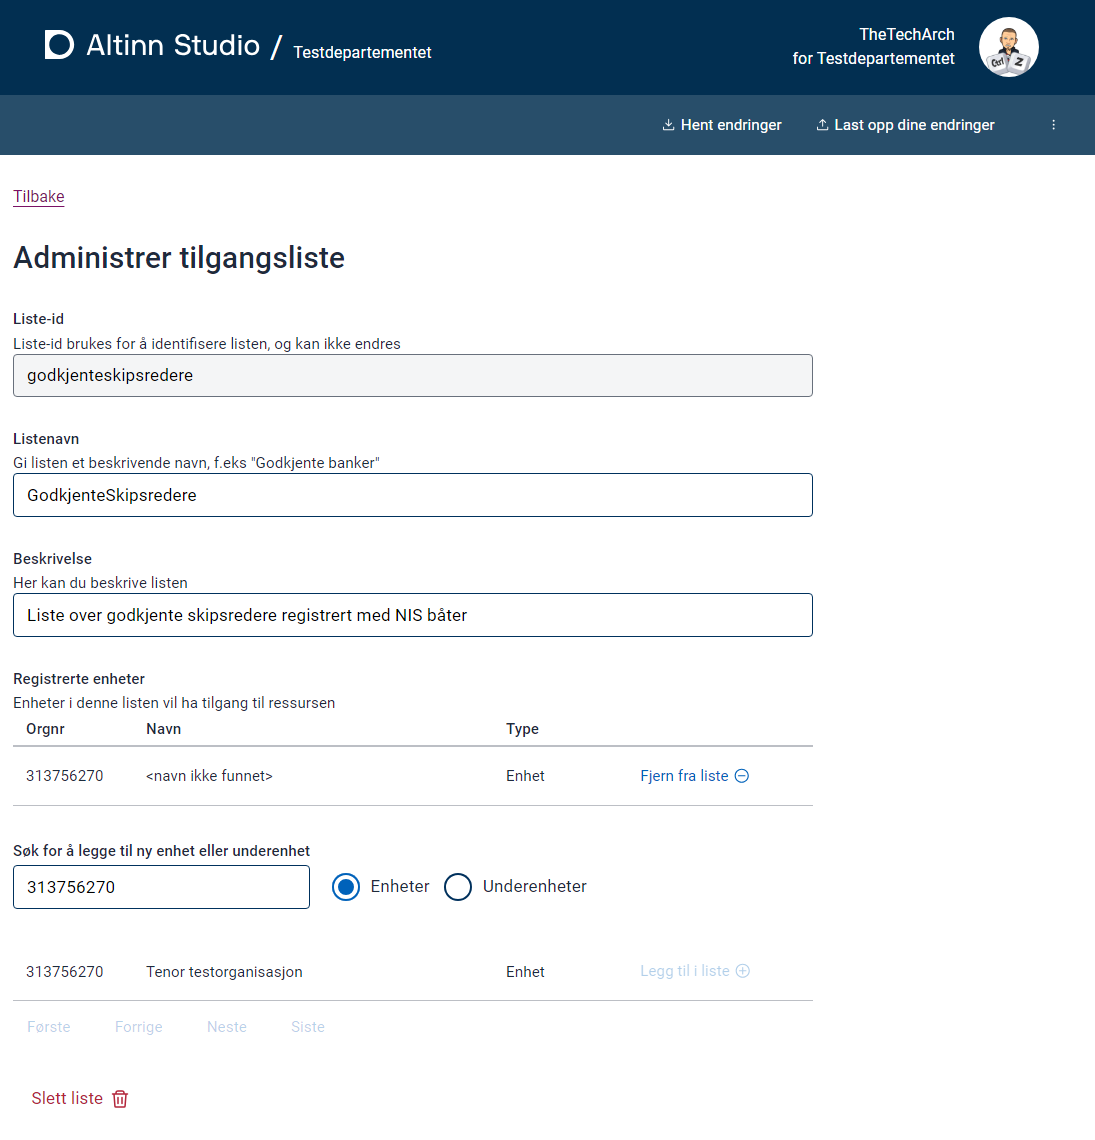
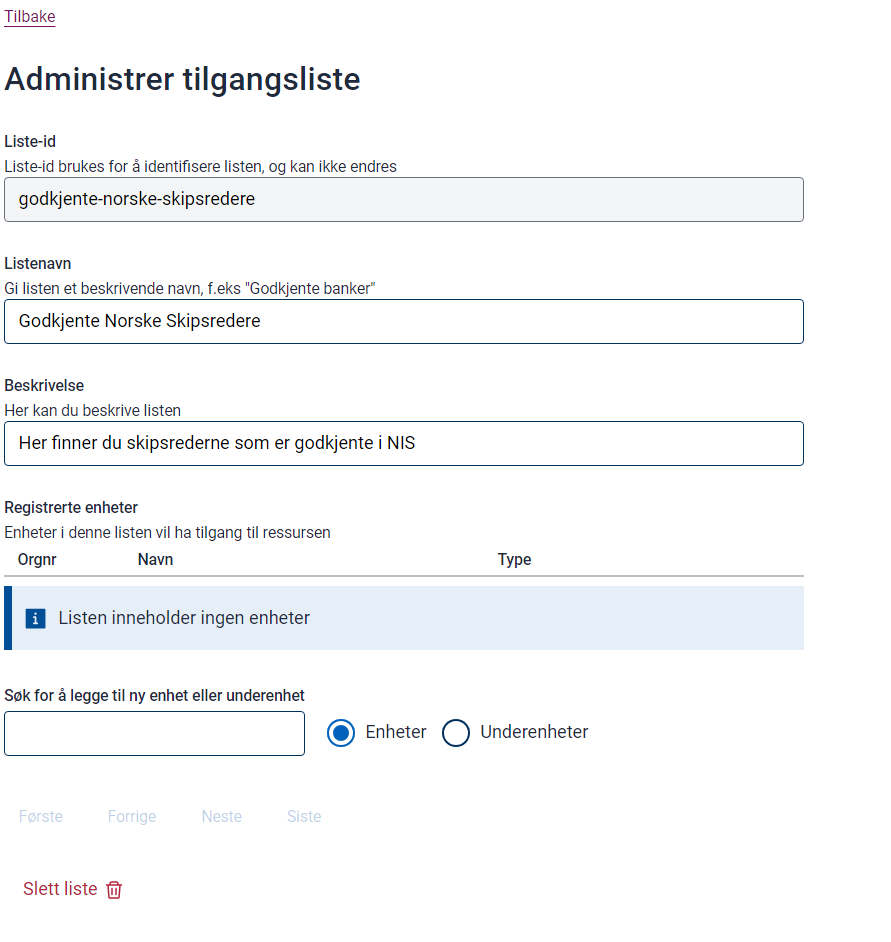
updates

diff --git a/content/authorization/guides/manage-accesslists-resource-admin/_index.nb.md b/content/authorization/guides/manage-accesslists-resource-admin/_index.nb.md
@@ -1,0 +1,64 @@
+---
+title: Administrer Tilgangslister i Altinn Studio
+linktitle: Admin av Tilgangsliste
+description: I Altinn Studio kan du administrere Tilgangsliste for Ressurser i Altinn Ressursregister.
+toc: false
+weight: 1
+---
+
+## Background
+
+For visse tjenester er det nødvendig å begrense tilgangen til bestemte organisasjoner. I Altinn 2 ble dette håndtert via Tjenesterettsregisteret (SRR).
+
+I Altinn 3 håndteres denne funksjonaliteten av Ressursrettsregisteret (RRR) gjennom Tilgangslister.
+
+## Prerequistes
+
+- Administrasjonsrettigheter for Ressursregisteret
+- Medlemskap i Tilgangsliste-gruppen for et spesifisert miljø
+
+Se [ Komme i gang med Tilgangslister](../../getting-started/accesslist-admin-studio/) for mer informasjon.
+
+## Opprette ny Tilgangsliste
+
+Naviger til ressursadministrasjonsdashbordet og klikk på lenken for administrasjon av tilgangsliste.
+
+![Access Lists](accesslist_0.png)
+
+Dette tar deg til oversiktssiden for Tilgangslister. Her vil du se en liste over miljøer tilgjengelig for din organisasjon.
+
+![Access Lists](accesslist_1.png)
+
+Velg et miljø for å vise dets Tilgangslister.
+
+Klikk “Opprett ny Tilgangsliste” og gi listen et unikt navn og ID.
+
+![Access Lists](accesslist_1a.png)
+
+Når listen er opprettet, kan du legge til en beskrivelse av listen din.
+
+![Access Lists](accesslist_2.png)
+
+## Legge til medlemmer i listen
+
+Legg til organisasjoner som medlemmer i listen din.
+
+I produksjonsmiljøer, søk etter navn eller organisasjonsnummer. I TT02 må du bruke testorganisasjonens nummer da navn ikke vil vises.
+
+
+![Access Lists](accesslist_3.png)
+
+## Tildele Tilgangsliste til ressurs
+
+For å tildele listen din til en ressurs:
+
+- Aktiver RRR for ressursen.
+- Velg en eller flere lister autorisert som rapportører for ressursen.
+
+
+![Access Lists](accesslist_5.png)
+
+
+![Access Lists](accesslist_4.png)
+
+Etter oppdatering, publiser ressursen til forskjellige miljøer. Merk: Hvis du aktiverer RRR før listen er satt opp, vil alle brukere miste tilgang.

diff --git a/content/authorization/guides/manage-accesslists-resource-admin/_index.md b/content/authorization/guides/manage-accesslists-resource-admin/_index.md
@@ -6,21 +6,58 @@ toc: false
 weight: 1
 ---
 
-
-
 ## Background
 
+For certain services, restricting access to specific organizations is necessary. In Altinn 2, this was managed via the Service Rights Registry (SRR). 
 
+In Altinn 3, this functionality is handled by the Resource Rights Registry (RRR) through Access Lists.
 
 ## Prerequistes
 
-- Resource Registry Admin enabled
-- Member in AccessList groupd for a given environment
-- 
+- Resource Registry Admin privileges
+- Membership in the AccessList group for a specified environment
 
+Refer to [Getting Started with Access Lists ](../../getting-started/accesslist-admin-studio/) for more information.
 
 ## Create new Access List
 
+Navigate to the resource admin dashboard and click on the link for access list administration.
 
+![Access Lists](accesslist_0.png)
+
+You’ll arrive at the overview page for Access Lists. Here, you’ll see a list of environments available to your organization.
+
+![Access Lists](accesslist_1.png)
+
+Select an environment to view its Access Lists.
+
+Click “Create new Access List” and provide a unique name and ID for your list.
+![Access Lists](accesslist_1a.png)
+
+Once created, you can add a description to your list.
+
+![Access Lists](accesslist_2.png)
+
+## Adding members to list
+
+Add organizations as members to your list. 
+
+In production environments, search by name or organization number. In TT02, use the test organization’s number as names won’t display.
+
+
+![Access Lists](accesslist_3.png)
 
 ## Assign Access List to resource
+
+To assign your list to a resource:
+
+- Enable RRR for the resource.
+- Select one or more lists authorized as reportees for the resource.
+
+
+![Access Lists](accesslist_5.png)
+
+
+![Access Lists](accesslist_4.png)
+
+After updating, publish the resource to various environments. Note: If you enable RRR before setting up the list, access will be lost for all.
